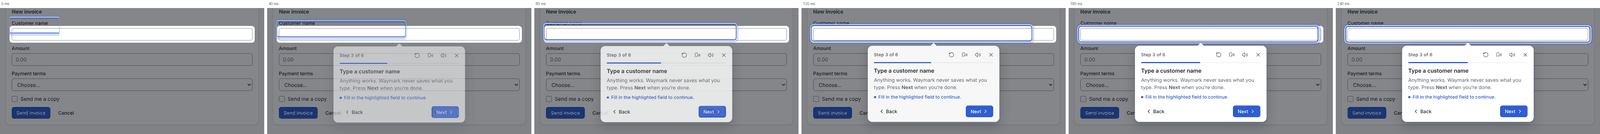
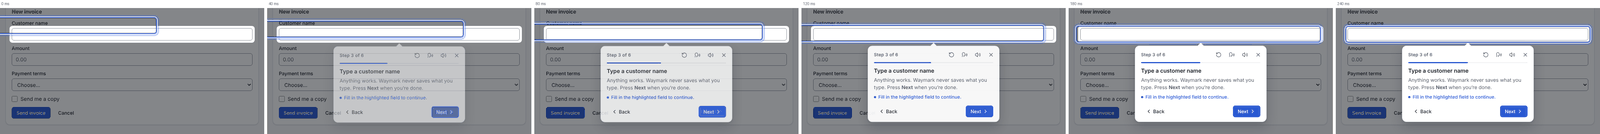
Motion bench: MOTION_DUMP splits the spotlight's long frames into script and rendering; frames (D133)
Claude-Session: https://claude.ai/code/session_012ZwsG5AzTB1CuRHyEnzKCt

diff --git a/test/bench/motion.bench.ts b/test/bench/motion.bench.ts
@@ -11,7 +11,8 @@
  * Clicks are real mouse clicks, so hover, press and release feedback run too. The window after
  * each click (250–350 ms) covers the animation (≤ 240 ms) plus the render, with little idle.
  * Each scenario runs with motion on and again with reduced motion (nothing moves) as the control.
- * A table goes to stdout and to artifacts/motion/bench.md (JSON beside it).
+ * A table goes to stdout and to artifacts/motion/bench.md (JSON beside it). MOTION_DUMP=1 also
+ * prints the spotlight's long animation frames split into script, rendering and layout time.
  */
 import { mkdirSync, writeFileSync } from 'node:fs';
 import { join } from 'node:path';
@@ -48,7 +49,21 @@ async function startRecording(page: Page): Promise<void> {
     long.observe({ type: 'longtask' });
     mb.obs.push(long);
     try {
-      const loaf = new PerformanceObserver((l) => l.getEntries().forEach((e) => mb.loaf.push({ duration: e.duration, blocking: (e as unknown as { blockingDuration: number }).blockingDuration ?? 0 })));
+      const loaf = new PerformanceObserver((l) =>
+        l.getEntries().forEach((e) => {
+          const x = e as unknown as { blockingDuration: number; renderStart: number; styleAndLayoutStart: number; scripts: { invoker: string; duration: number; forcedStyleAndLayoutDuration: number }[] };
+          mb.loaf.push({
+            duration: e.duration,
+            blocking: x.blockingDuration ?? 0,
+            // Where the frame's time went: scripts, then rendering (style, layout, paint).
+            script: (x.renderStart || e.startTime + e.duration) - e.startTime,
+            render: e.startTime + e.duration - (x.renderStart || e.startTime + e.duration),
+            layout: x.styleAndLayoutStart ? e.startTime + e.duration - x.styleAndLayoutStart : 0,
+            forced: (x.scripts ?? []).reduce((t, sc) => t + (sc.forcedStyleAndLayoutDuration ?? 0), 0),
+            top: (x.scripts ?? []).sort((a, b) => b.duration - a.duration)[0]?.invoker ?? '',
+          } as never);
+        }),
+      );
       loaf.observe({ type: 'long-animation-frame' });
       mb.obs.push(loaf);
     } catch {
@@ -188,6 +203,7 @@ for (const mode of ['motion', 'reduced'] as const) {
     }
     expect(await page.evaluate(() => document.documentElement.getAttribute('data-waymark-test-practice'))).toBe('drawn:0');
     (results.spotlight ??= {} as Record<Mode, ReturnType<typeof stats>>)[mode] = stats(glide);
+    if (process.env.MOTION_DUMP) console.log(JSON.stringify(glide.loaf));
   });
 }
 
